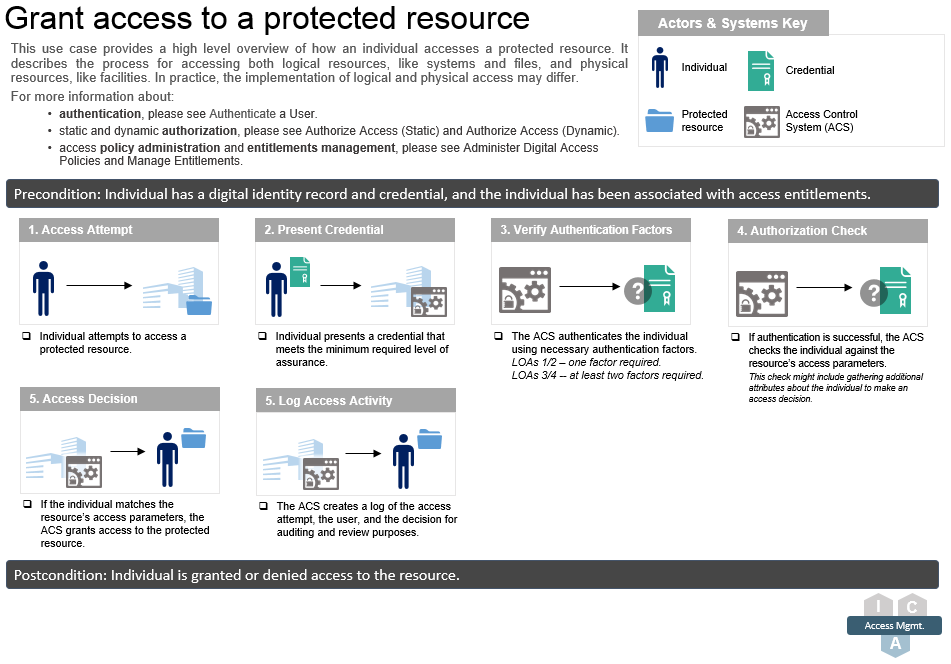
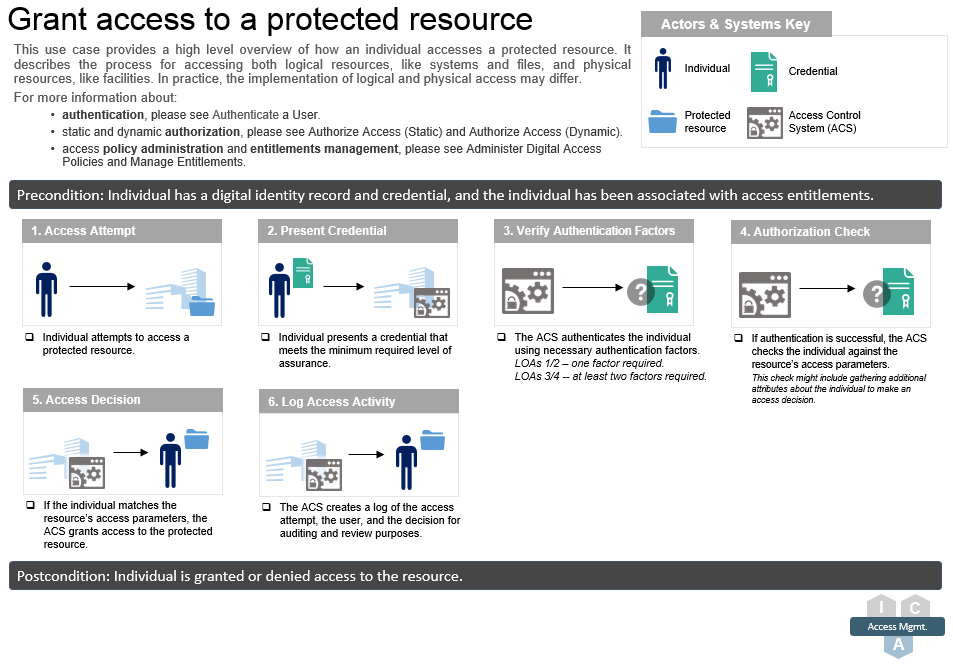
Rest of the updates to use cases

diff --git a/_usecases/41_federate_exchange_attributes.md b/_usecases/41_federate_exchange_attributes.md
@@ -3,7 +3,27 @@ layout: page_collection
 title: Exchange Attributes in a Federation
 collection: usecases
 ---
-When an individual requests access to a resource at an outside organization, that organization usually needs the individual’s attributes to make an access decision. Rather than creating a new identity record, the organization can query a metadata service to determine where a record of that individual’s attributes already exists. This can also be used to support design time identity maintenance.
-This use case demonstrates both a brokered (a) and non-brokered (b) approach for obtaining attributes. It also applies to applies to situations where attributes are being sought from another division within the same organization.
 
-![Exchange Federated Attribute](../../img/ExchangeAttributes.png)
+When an individual requests access to a resource at an outside organization, that organization usually needs the individual’s attributes to make an access decision. Rather than creating a new identity record, the organization can query a metadata service to determine where a record of that individual’s attributes already exists. This can also be used to support design time identity maintenance.
+This use case demonstrates both a brokered (a) and non-brokered (b) approach for obtaining attributes. It also applies to situations where attributes are being sought from another division within the same organization.
+
+---
+
+![Actors and Systems Key for Images](../../img/usecases/exchangelabel.png){:align="right"}
+![Actors and Systems Key for Images](../../img/usecases/exchangekey.png)
+
+**Pre-condition:** The requesting user is authenticated and belongs to an organization other than the one that owns the protected resource.
+
+| ![1. Access Request](../../img/usecases/exchange1.png)  | An individual from Organization A attempts to access a resource at Organization B. |
+| ![2A-1. Metadata Service Queried (Brokered)](../../img/usecases/exchange2.png)  | Organization B asks the metadata service where to go to obtain more details about the individual. |
+| ![2A-2. Metadata Service Response (Brokered)](../../img/usecases/exchange3.png)  | The metadata service tells Organization B that Organization A has the individual’s information on record. |
+| ![2A-3. Broker Queried (Brokered)](../../img/usecases/exchange4.png)  | Organization A’s attribute broker obtains the relevant identity data from its data sources. |
+| ![2A-4. Attribute Query (Brokered)](../../img/usecases/exchange5.png)  | Organization A’s attribute broker obtains the relevant identity data from its data sources. |
+| ![2A-5. Attributes Passed (Brokered)](../../img/usecases/exchange6.png)  | Organization A’s attribute broker responds to organization B’s attribute broker with the relevant data. |
+| ![2B-1. Attribute Query (Non-Brokered)](../../img/usecases/exchange7.png)  | Organization B queries Organization A for the individual’s attributes. |
+| ![2B-2. Attributes Passed (Non-Brokered)](../../img/usecases/exchange8.png)  | Organization A responds to Organization B with the individual’s relevant attributes. |
+| ![3. Access Decision](../../img/usecases/exchange9.png)  | Organization B uses the individual’s attributes to make an authorization decision.  |
+
+**Post-condition:** The individual’s attribute data was provided to the requesting organization.
+
+[Click here](../../img/ExchangeAttributes.png) for a consolidated image of this use case.

diff --git a/_usecases/42_federate_accept.md b/_usecases/42_federate_accept.md
@@ -3,7 +3,27 @@ layout: page_collection
 title: Accept Credentials in a Federation
 collection: usecases
 ---
+
 The term ‘federation’ describes an environment where an agency has established the tools and policies to accept identity and credential information from users at another organization, thus expanding secure access to individuals outside the organization.  Agencies might look to federate with other governmental bodies or private organizations in order to expand services, reduce costs, and improve overall efficiency.  
 This use case shows the primary process for providing access to an outside individual in a federated environment.
 
-![Accept federated credentials](../../img/FederatedCred.png)
+---
+
+![Actors and Systems Key for Images](../../img/usecases/federationlabel.png){:align="right"}
+![Actors and Systems Key for Images](../../img/usecases/federationkey.png)
+
+**Pre-condition:** Enterprise has set up the tools and policies to accept a federated credential
+
+| ![1. Request Issued](../../img/usecases/fed1.png)  | An individual requests access to a resource at an outside organization <br/><em> In this case, an individual at a private sector organization is requesting access to a protected government resource.</em> |
+| ![2A. Request Relayed (Directly)](../../img/usecases/fed2.png)  | The agency relays the request to the individual’s home organization. |
+| ![2B. Request Relayed (Indirectly)](../../img/usecases/fed3.png)  | The agency directs the individual to their home organization to validate their identity. |
+| ![3. Identity/Cred. Verified](../../img/usecases/fed4.png)  | The home organization verifies the individual’s identity. |
+| ![4. Assertion Generated](../../img/usecases/fed5.png)  | The home organization generates a “verification assertion” to pass back to the requesting organization. |
+| ![5A. Assertion Delivered (Directly)](../../img/usecases/fed6.png)  | The individual’s home organization passes the assertion to the requesting organization. |
+| ![5B. Assertion Delivered (Indirectly)](../../img/usecases/fed7.png)  | The individual’s home organization passes the authentication assertion to the individual, who relays it to the requesting organization. |
+| ![6. Access Decision](../../img/usecases/fed8.png)  | An access control decision is made by the organization. |
+
+
+**Post-condition:** Individual is authenticated at the outside organization and proceeds to the authorization step.  
+
+[Click here](../../img/FederatedCred.png) for a consolidated image of this use case.

diff --git a/_usecases/33_access_grant.md b/_usecases/33_access_grant.md
@@ -1,6 +1,6 @@
 ---
 layout: page_collection
-title: Grant Access to a protected resource
+title: Grant Access to a Protected Resource
 collection: usecases
 ---
 This use case provides a high level overview of how an individual accesses a protected resource. It describes the process for accessing both logical resources, like systems and files, and physical resources, like facilities. In practice, the implementation of logical and physical access may differ.
@@ -10,4 +10,19 @@ For more information about:
 * Static and dynamic authorization - please see Authorize Access (Static) and Authorize Access (Dynamic).
 * Access policy administration and entitlements management - please see Administer Digital Access Policies and Manage Entitlements.
 
-![Grant access](../../img/GrantAccess.png)
+![Actors and Systems Key for Images](../../img/usecases/accesslabel.png){:align="right"}
+![Actors and Systems Key for Images](../../img/usecases/accesskey.png)
+
+**Pre-condition:** Individual has a digital identity record and credential, and the individual has been associated with access entitlements.  
+
+| ![1. Access Attempt](../../img/usecases/grant1.png)  | Individual attempts to access a protected resource. |
+| ![2. Present Credential](../../img/usecases/grant2.png)  | Individual presents a credential that meets the minimum required level of assurance. |
+| ![3. Verify Authentication Factors](../../img/usecases/grant3.png)  | The Access Control System (ACS) authenticates the individual using necessary authentication factors. <br/><em>LOAs 1/2 - one factor required; LOAs 3/4 – at least two factors required.</em> |
+| ![4. Authorization Check](../../img/usecases/grant4.png)  | If authentication is successful, the ACS checks the individual against the resource’s access parameters.  <br/><em> This check might include gathering additional attributes about the individual to make an access decision.</em> |
+| ![5. Access Decision](../../img/usecases/grant5.png)  | If the individual matches the resource’s access parameters, the ACS grants access to the protected resource. |
+| ![6. Log Access Activity](../../img/usecases/grant6.png)  | The ACS creates a log of the access attempt, the user, and the decision for auditing and review purposes. |
+
+**Post-condition:** Individual is granted or denied access to the resource.
+
+[Click here](../../img/GrantAccess.png) for a consolidated image of this use case.
+

diff --git a/_usecases/32_accessentitlements.md b/_usecases/32_accessentitlements.md
@@ -15,12 +15,12 @@ Managing entitlements happens during design time, before an individual attempts 
 
 **Pre-condition:** Individual has an active credential.
 
-| ![1. Separation Notification](../../img/usecases/revoke1.png)  | An actor sends separation notification to the credential manager. <br/><em> Actor could range from the individual to their supervisor, HR, or security team member.</em> |
-| ![2. Credential Disabled](../../img/usecases/revoke2.png)  | The credential manager invalidates the credential and disables its access provisions. <br/><em>The credential manager could be a person or a system.</em> |
-| ![3. Credential Collected](../../img/usecases/revoke3.png)  | An actor collects the credential if it is a hardware token. <br/><em>Actor could be supervisor, HR, or a security team member. </em> |
-| ![3. Credential Collected](../../img/usecases/revoke3.png)  | An actor collects the credential if it is a hardware token. <br/><em>Actor could be supervisor, HR, or a security team member. </em> |
+| ![1. Request to Create Entitlements](../../img/usecases/entitlements1.png)  | An actor requests to create entitlements for an individual. <br/><em>This actor could be the individual, an administrator, or an automated system, depending on the organization. </em>  |
+| ![2. Request Reviewed](../../img/usecases/entitlements2.png)  | The request change is reviewed. <br/><em>Reviewer could be a person or a system that evaluates the request against existing policy. They may be multiple layers of review.</em> |
+| ![3. Request Approved](../../img/usecases/entitlements3.png)  | If the requested change is in accordance with policy and the individual has a mission need for access, the request is approved. |
+| ![3. Maintain Entitlements](../../img/usecases/entitlements4.png)  | The individual is provisioned with updated access entitlements. Those entitlements are updated and maintained whenever their roles changes.  |
 
-**Post-condition:** Individual no longer has access via that credential.
+**Post-condition:** The individual has been provisioned entitlements that allow them access to the appropriate resources for their role.  
 
 [Click here](../../img/Entitlements.png) for a consolidated image of this use case.
 

diff --git a/_usecases/36_access_authorize_dynamic.md b/_usecases/36_access_authorize_dynamic.md
@@ -3,8 +3,24 @@ layout: page_collection
 title: Authorize Access - Dynamic
 collection: usecases
 ---
+
 This use case provides, in detail, the steps for the dynamic method of authorizing access to a protected resource. It stems from the ‘Grant access to a protected resource’ use case and expands on Step 4, ‘Authorization Check.’
 Under the dynamic model, an organization establishes a set of access policies.  Whenever a user attempts to access a protected resource, the access control system (ACS) evaluates their attributes against those policies. When a user’s attributes change, their access entitlements change dynamically.
 This model is typical of ABAC (attribute-based access control) systems.
 
-![Authorize Dynamic Access](../../img/AuthorizeDynamic.png)
+---
+
+![Actors and Systems Key for Images](../../img/usecases/authorizationlabel.png){:align="right"}
+![Actors and Systems Key for Images](../../img/usecases/dynamickey.png)
+
+**Pre-condition:** Individual’s credential has been authenticated and meets the minimum required level of assurance.   
+
+| ![1. Obtain Identifier](../../img/usecases/dynamic1.png)  | Obtain user’s identifier from user’s authenticated context. |
+| ![2. Obtain Access Policies](../../img/usecases/dynamic2.png)  | Obtain resource’s access control policies. |
+| ![3. Obtain Relevant Attributes](../../img/usecases/dynamic3.png)  | Obtain the attributes needed for the access decision. <br/><em>The attributes needed could be about the individual, the resource, or the environment. </em> |
+| ![4. Evaluate Policies](../../img/usecases/dynamic4.png)  | Evaluate collected attribute data against the access control policies. |
+| ![5. Access Decision](../../img/usecases/dynamic5.png)  | If the request meets the conditions of the access policies, the ACS grants the individual access to the protected resource. Otherwise, access is denied. |
+
+**Post-condition:** Individual is granted or denied access to the resource.
+
+[Click here](../../img/AuthorizeDynamic.png) for a consolidated image of this use case.

diff --git a/_usecases/34_access_authenticate.md b/_usecases/34_access_authenticate.md
@@ -3,8 +3,23 @@ layout: page_collection
 title: Authenticate a User
 collection: usecases
 ---
+
 This use case describes, in detail, the steps for authenticating a user who has requested access to a protected resource. It stems from the ‘Grant access to a protected resource’ use case and expands on Step 3, ‘Verify authentication factors.’
 Authentication is the process by which a system verifies the user’s claimed identity to a certain level of assurance (LOA).  LOA1 is the lowest level, and LOA4 is the highest.
 There are three types of authentication factors: something you know (such as a password or PIN), something you have (such as a smartcard), and something you are (such as your fingerprint). At LOA3 and LOA4, at least two types of factors are required.
 
-![Authenticate a user](../../img/Authenticate.png)
+---
+
+![Actors and Systems Key for Images](../../img/usecases/authenticatelabel.png){:align="right"}
+![Actors and Systems Key for Images](../../img/usecases/authenticatekey.png)
+
+**Pre-condition:** Individual has attempted to access a resource.  
+
+| ![1. Prompt for Authentication](../../img/usecases/authn1.png)  | The Access Control System (ACS) prompts the individual to provide authentication factor(s). |
+| ![2. User Input](../../img/usecases/authn2.png)  | For LOA 2, the individual provides a single authentication factor, usually a PIN or password. For LOA 3 and LOA 4, the individual provides at least two authentication factors.  |
+| ![3. Input Verified](../../img/usecases/authn3.png)  | The ACS verifies the user’s input against information about the user’s claimed identity. <br/><em>Each type of factor is authenticated in a different way. </em> |
+| ![4. User Authenticated](../../img/usecases/authn4.png)  | If the factors are verified, authentication is successful.  |
+
+**Post-condition:** Individual is successfully or unsuccessfully authenticated. If successful, authorization is the next step. 
+
+[Click here](../../img/Authenticate.png) for a consolidated image of this use case.

diff --git a/_usecases/35_access_authorize_static.md b/_usecases/35_access_authorize_static.md
@@ -3,8 +3,22 @@ layout: page_collection
 title: Authorize Access - Static
 collection: usecases
 ---
+
 This use case provides, in detail, the steps for the static method of authorizing access to a protected resource. It stems from the ‘Grant access to a protected resource’ use case and expands on Step 4, ‘Authorization Check.’
 Under the static model, an organization provisions users to a set of access entitlements.  Whenever they attempt to access a protected resource, the access control system (ACS) checks their permissions against the resource’s access rules.
 This model is typical of Access Control Lists (ACL) and RBAC (role-based access control) systems.
 
-![Authorize static access](../../img/AuthorizeStatic.png)
+![Actors and Systems Key for Images](../../img/usecases/authorizationlabel.png){:align="right"}
+![Actors and Systems Key for Images](../../img/usecases/statickey.png)
+
+**Pre-condition:** Individual’s credential has been authenticated and meets the minimum required level of assurance.   
+
+| ![1. Obtain Identifier](../../img/usecases/static1.png)  | Obtain user’s identifier from user’s authenticated context. |
+| ![2. Lookup Access Permissions](../../img/usecases/static2.png)  | Lookup user’s relevant access permissions associated with the resource. |
+| ![3. Obtain Access Rules](../../img/usecases/static3.png)  | Obtain resource’s access control rules. |
+| ![4. Process Authorization](../../img/usecases/static4.png)  | Evaluate individual’s access permissions against resource’s access control rules. |
+| ![5. Access Decision](../../img/usecases/static5.png)  | If the individual has the appropriate access permissions, the ACS grants the individual access to the protected resource. Otherwise, access is denied. |
+
+**Post-condition:** Individual is granted or denied access to the resource.
+
+[Click here](../../img/AuthorizeStatic.png) for a consolidated image of this use case.
